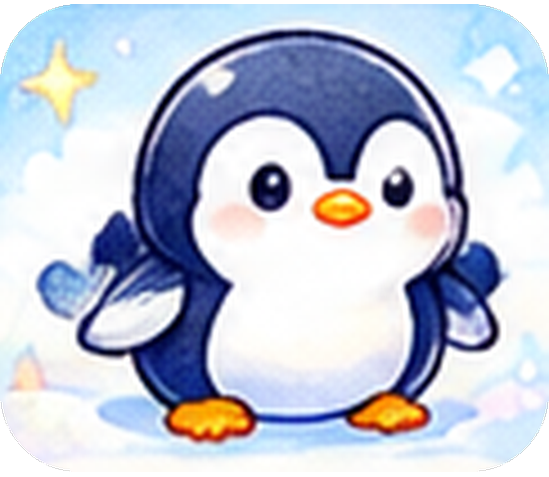
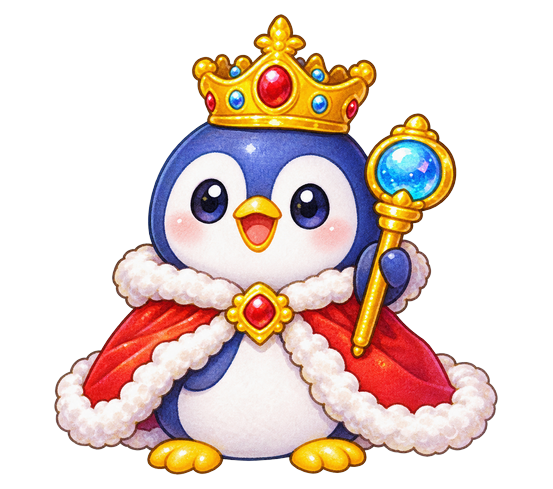
トップページの4キャラの絵を MAさんの新しい絵に
Claude-Session: https://claude.ai/code/session_01UiPSEer8fJK53joirGFQvZ

diff --git a/learn.html b/learn.html
@@ -399,7 +399,7 @@ function home(){
       ks.map(k=>`<button class="tile ${L[k]?"done":""} ${k===nk?"next":""}" data-k="${k}" aria-label="${k}${L[k]?"（おぼえた）":""}">${k}${star(k)}</button>`).join("")+`</div></section>`;
   }
   app.innerHTML=`<div class="top"><a class="pill" href="./">‹ キャラをえらぶ</a><span class="spacer"></span><button class="pill" id="boxBtn">${CHAR.boxE} ${CHAR.box}（${ownedCount()+Object.keys(SP).length}）</button></div>
-  <div class="hero"><img src="chara-${CH}.png?v=5" alt=""><div><h1>${CHAR.name} ${GRADE}年生<br>おぼえる</h1><p>おぼえた かんじ <b>${n}</b> / ${KS.length}${nk?`・いまは「${placeName(chapOf(nk))}」`:""}</p><div class="bar"><i style="width:${n/KS.length*100}%"></i></div></div></div>
+  <div class="hero"><img src="chara-${CH}.png?v=6" alt=""><div><h1>${CHAR.name} ${GRADE}年生<br>おぼえる</h1><p>おぼえた かんじ <b>${n}</b> / ${KS.length}${nk?`・いまは「${placeName(chapOf(nk))}」`:""}</p><div class="bar"><i style="width:${n/KS.length*100}%"></i></div></div></div>
   <div class="modes"><button class="on" aria-current="page">📖 おぼえる</button><a href="${CH}-${KYU}.html">✏ クイズ</a></div>
   <div class="gift-meter"><span>${CHAR.boxE}</span><span>あと <b>${PER_ITEM-(n%PER_ITEM)}</b>字 れんしゅうすると アイテム！</span>${(()=>{const m=n%PER_ITEM;return `<div class="pips">${Array.from({length:PER_ITEM},(_,i)=>`<i class="${i<m?"on":""}"></i>`).join("")}</div>`;})()}</div>
   ${nk?`<button class="btn pri" id="goNext" style="padding:14px;font-size:1.1rem">つぎの かんじ「${nk}」を おぼえる ›</button>`:`<p class="msg ok">ぜんぶ おぼえたね！ クイズに ちょうせんしよう！</p>`}
@@ -416,7 +416,7 @@ function box(){
   const all=CHAR.items;
   const spList=Object.entries(SP);
   app.innerHTML=`<div class="top"><button class="pill" id="back">‹ もどる</button></div>
-  <div class="hero"><img src="chara-${CH}.png?v=5" alt=""><div><h1>${CHAR.boxE} ${CHAR.box}</h1><p>かんじを 5つ しっかり れんしゅうすると アイテムが 1つ。ひとつの ばしょの かんじを ぜんぶ おぼえると とくべつアイテム！</p></div></div>
+  <div class="hero"><img src="chara-${CH}.png?v=6" alt=""><div><h1>${CHAR.boxE} ${CHAR.box}</h1><p>かんじを 5つ しっかり れんしゅうすると アイテムが 1つ。ひとつの ばしょの かんじを ぜんぶ おぼえると とくべつアイテム！</p></div></div>
   <section class="card"><h3>とくべつアイテム（${spList.length}）</h3><div class="shelf">${CHAR.special.map((x,i)=>{ const has=spList.some(([id,j])=>j===i); return has?`<div class="it sp">${x[0]}<small>${x[1]}</small></div>`:`<div class="it no">？</div>`; }).join("")}</div></section>
   <section class="card"><h3>アイテム（${Object.keys(IT).length} / ${all.length}しゅるい）</h3><div class="shelf">${all.map((x,i)=>IT[i]?`<div class="it">${IT[i]>1?`<span class="n">×${IT[i]}</span>`:""}${x[0]}<small>${x[1]}</small></div>`:`<div class="it no">？</div>`).join("")}</div></section>`;
   $("#back").onclick=home; scrollTo(0,0);
@@ -446,7 +446,7 @@ function lesson(k){
     scrollTo(0,0);
   }
   const unlock=()=>{ done[step]=true; $("#next").disabled=false; };
-  const talk=t=>`<div class="talk"><img src="chara-${CH}.png?v=5" alt=""><p>${t}</p></div>`;
+  const talk=t=>`<div class="talk"><img src="chara-${CH}.png?v=6" alt=""><p>${t}</p></div>`;
   const pips=(n,need)=>`<div class="pips" aria-label="${n}/${need}">${Array.from({length:need},(_,i)=>`<i class="${i<n?"on":""}"></i>`).join("")}</div>`;
   const msgFn=(t,c)=>{ const m=$("#msg"); if(m){ m.textContent=t; m.className="msg "+c; } };
   function show(){

diff --git a/sw.js b/sw.js
@@ -1,6 +1,6 @@
 // かんじフレンズ：オフラインでも遊べるようにするしくみ
 // ゲームを直したら VERSION を上げると、つぎに開いたとき新しい版に入れかわります
-const VERSION = "nakama-v69";
+const VERSION = "nakama-v70";
 const CORE = ["./", "./index.html", "./manifest.webmanifest", "./icon-192.png", "./icon-512.png", "./icon-maskable-512.png", "./apple-touch-icon.png", "./chara-pirate.png", "./chara-dragon.png", "./chara-hamster.png", "./chara-unicorn.png", "./pirate-10.html", "./pirate-9.html", "./pirate-8.html", "./pirate-7.html", "./pirate-6.html", "./pirate-5.html", "./dragon-10.html", "./dragon-9.html", "./dragon-8.html", "./dragon-7.html", "./dragon-6.html", "./dragon-5.html", "./hamster-10.html", "./hamster-9.html", "./hamster-8.html", "./hamster-7.html", "./hamster-6.html", "./hamster-5.html", "./unicorn-10.html", "./unicorn-9.html", "./unicorn-8.html", "./unicorn-7.html", "./unicorn-6.html", "./unicorn-5.html", "./learn.html", "./pay.js?v=1", "./evo/dragon-0.webp", "./evo/dragon-1.webp", "./evo/dragon-10.webp", "./evo/dragon-11.webp", "./evo/dragon-12.webp", "./evo/dragon-13.webp", "./evo/dragon-14.webp", "./evo/dragon-2.webp", "./evo/dragon-3.webp", "./evo/dragon-4.webp", "./evo/dragon-5.webp", "./evo/dragon-6.webp", "./evo/dragon-7.webp", "./evo/dragon-8.webp", "./evo/dragon-9.webp", "./evo/hamster-0.webp", "./evo/hamster-1.webp", "./evo/hamster-10.webp", "./evo/hamster-11.webp", "./evo/hamster-12.webp", "./evo/hamster-13.webp", "./evo/hamster-14.webp", "./evo/hamster-2.webp", "./evo/hamster-3.webp", "./evo/hamster-4.webp", "./evo/hamster-5.webp", "./evo/hamster-6.webp", "./evo/hamster-7.webp", "./evo/hamster-8.webp", "./evo/hamster-9.webp", "./evo/pirate-0.png", "./evo/pirate-0.webp", "./evo/pirate-1.webp", "./evo/pirate-10.webp", "./evo/pirate-11.webp", "./evo/pirate-12.webp", "./evo/pirate-13.webp", "./evo/pirate-14.webp", "./evo/pirate-2.webp", "./evo/pirate-3.webp", "./evo/pirate-4.webp", "./evo/pirate-5.webp", "./evo/pirate-6.webp", "./evo/pirate-7.webp", "./evo/pirate-8.webp", "./evo/pirate-9.webp", "./evo/unicorn-0.webp", "./evo/unicorn-1.webp", "./evo/unicorn-10.webp", "./evo/unicorn-11.webp", "./evo/unicorn-12.webp", "./evo/unicorn-13.webp", "./evo/unicorn-14.webp", "./evo/unicorn-2.webp", "./evo/unicorn-3.webp", "./evo/unicorn-4.webp", "./evo/unicorn-5.webp", "./evo/unicorn-6.webp", "./evo/unicorn-7.webp", "./evo/unicorn-8.webp", "./evo/unicorn-9.webp", "./cut/dragon-0.webp", "./cut/dragon-1.webp", "./cut/hamster-0.webp", "./cut/hamster-1.webp", "./cut/pirate-0.webp", "./cut/pirate-1.webp", "./cut/unicorn-0.webp", "./cut/unicorn-1.webp", "./play/card-igloo.webp", "./play/card-q.webp", "./play/fish0.webp", "./play/fish1.webp", "./play/fish2.webp", "./play/fish4.webp", "./play/fish5.webp", "./play/igloo.webp", "./play/nightsky.webp", "./play/star.webp", "./play/target.webp", "./play/tr-dug.webp", "./play/tr-gold.webp", "./play/tr-hot.webp", "./play/tr-sand.webp", "./learn-1.js?v=1", "./learn-2.js?v=1", "./learn-3.js?v=1", "./learn-4.js?v=1", "./learn-5.js?v=1", "./learn-6.js?v=1"];
 
 self.addEventListener("install", e => {

diff --git a/index.html b/index.html
@@ -159,7 +159,7 @@ function info(c,k){
 function render(open){
   $("grid").after($("panel"));
   $("grid").innerHTML = CHARS.map(c=>`<button type="button" class="chara ${c.id}" data-id="${c.id}" aria-expanded="${open===c.id}">
-      <img src="chara-${c.id}.png?v=5" alt="" width="366" height="322"><b>${c.name}</b><small>${GR[c.kyus[0]]}〜${GR[c.kyus[c.kyus.length-1]]}年生</small></button>`).join("");
+      <img src="chara-${c.id}.png?v=6" alt="" width="366" height="322"><b>${c.name}</b><small>${GR[c.kyus[0]]}〜${GR[c.kyus[c.kyus.length-1]]}年生</small></button>`).join("");
   $("grid").querySelectorAll(".chara").forEach(b=>b.addEventListener("click",()=>{ const id=b.dataset.id; render(open===id?null:id); if(open!==id) $("panel").scrollIntoView({behavior:"smooth",block:"nearest"}); }));
   const c=CHARS.find(x=>x.id===open);
   $("panel").hidden=!c;
@@ -180,10 +180,10 @@ const L=last(), lm=L&&L.match(/^learn:(pirate|dragon|hamster|unicorn)-([1-6])$/)
 const m=L&&L.match(/^(pirate|dragon|hamster|unicorn)-(10|9|8|7|6|5)$/), lc=m&&CHARS.find(c=>c.id===m[1]&&c.kyus.includes(m[2]));
 if(lm){ const c=CHARS.find(x=>x.id===lm[1]), k={"1":"10","2":"9","3":"8","4":"7","5":"6","6":"5"}[lm[2]];
   $("cont").hidden=false; $("cont").href=`learn.html?c=${c.id}&g=${lm[2]}`; $("cont").className="cont "+c.id;
-  $("cont").innerHTML=`<img src="chara-${c.id}.png?v=5" alt="" width="84" height="68"><div><b>つづきから：${c.name} ${lm[2]}年生</b><span>📖 おぼえる（${learnInfo(c,k)} / ${NK[k]}字）</span></div><i>›</i>`;
+  $("cont").innerHTML=`<img src="chara-${c.id}.png?v=6" alt="" width="84" height="68"><div><b>つづきから：${c.name} ${lm[2]}年生</b><span>📖 おぼえる（${learnInfo(c,k)} / ${NK[k]}字）</span></div><i>›</i>`;
 }else if(lc){
   $("cont").hidden=false; $("cont").href=L+".html"; $("cont").className="cont "+lc.id;
-  $("cont").innerHTML=`<img src="chara-${lc.id}.png?v=5" alt="" width="84" height="68"><div><b>つづきから：${lc.name} ${GR[m[2]]}年生</b><span>✏ クイズ・${info(lc,m[2]).replace(/<\/?b>/g,"")}</span></div><i>›</i>`;
+  $("cont").innerHTML=`<img src="chara-${lc.id}.png?v=6" alt="" width="84" height="68"><div><b>つづきから：${lc.name} ${GR[m[2]]}年生</b><span>✏ クイズ・${info(lc,m[2]).replace(/<\/?b>/g,"")}</span></div><i>›</i>`;
 }
 render(null);
 // 有料のしくみ（アプリのときだけ）：買う・購入を復元
